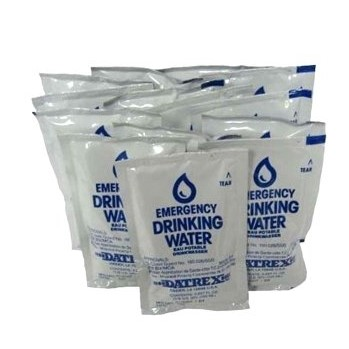
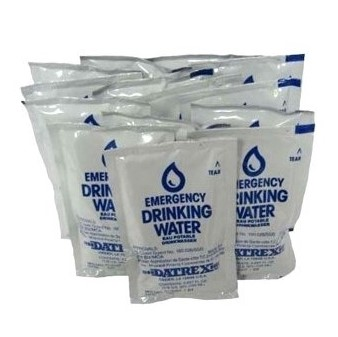
Minor fixups
I finished the header/nav bar and implimented it in the signup page.
Added a footer just in case for next time when Johsnon tells me whether
I need to have a contact us/privacy policy/terms and conditions etc.
that's where I'll put it all.
I cropped the small packet of water again to make it more centre.

Changed region(s): [[0.0592, 0.1484, 0.9467, 0.9199]]

diff --git a/css/styles.css b/css/styles.css
@@ -16,12 +16,19 @@ input:invalid {
 	box-shadow: none !important;
 }
 
+footer {
+	background-color: #002D62;
+	height: 6rem;
+	position: absolute;
+	bottom: 0;
+	width: 100%;
+}
+
 #nav-buttons {
 	width: auto;
-	background-color: red;
 	width: 60rem;
 	display: flex;
-	justify-content: space-between;
+	justify-content: space-around;
 }
 
 #nav-bar {
@@ -49,6 +56,10 @@ input:invalid {
 	color: white;
 	background-color: #00a8ff;
 	border-radius: 0.2rem;
+	padding: 1rem 1rem 0.5rem 0.5rem;
+	margin-right: 3rem;
+	position: relative;
+	bottom: 2rem;
 }
 
 #blueBoxForm {
@@ -58,6 +69,8 @@ input:invalid {
 	width: 36rem;
 	padding: 1rem;
 	padding-bottom: 2.5rem;
+	height: 30rem;
+	align-items: center;
 }
 
 #white-box {
@@ -67,6 +80,14 @@ input:invalid {
 	width: 98%;
 	border: 3rem solid #e5e5e8;
 	padding: 5rem;
+}
+
+#white-box-signup {
+	display: flex;
+	justify-content: center;
+	background-color: white;
+	width: 98%;
+	border: 3rem solid #e5e5e8;
 }
 
 #white-box-holder {
@@ -99,6 +120,11 @@ input:invalid {
 	position: relative;
 	bottom: 4rem;
 	right: 1rem;
+}
+
+#blue-box-holder {
+	display: flex;
+	justify-content: center;
 }
 
 .nav-button a:link, .nav-button, .nav-button a:visited {

diff --git a/signup.php b/signup.php
@@ -6,20 +6,41 @@
 	<link rel="stylesheet" type="text/css" href="css/styles.css" />
 </head>
 <body>
-	<div id="blueBoxForm">
-		<div class="formBox">
-			<div>
-				<h1>SIGN UP</h1>
-				<p class="error">Please re-enter your password.</p>
+	<header>
+		<div id="nav-bar-container">
+			<div id="nav-bar">
+				<a href="index.php"><img src="images/logo.png"  id="logo-image"/></a>
+				<ul id="nav-buttons">
+					<li class="nav-button"><strong><a href="shop.php">SHOP</a></li></strong>
+					<li class="nav-button" id="active"><strong><a href="signup.php">SIGN UP</a></li></strong>
+					<li class="nav-button"><strong><a href="login.php">LOG IN</a></li></strong>
+				</ul>
+				<div>
+					<strong><a href="cart.php" id="cart-button"><img src="images/cart.png" id="cart-image"/> CART</a></strong>
+				</div>
 			</div>
-			<form id="RegisterForm" name="RegisterForm" method="post" action="" enctype="multipart/form-data">
-				<div class="formelement"><input type="text" name="FirstName" required="required" class="textfield" id="FirstName" placeholder="First name"></div>
-				<div class="formelement"><input type="text" name="Surname" required="required" class="textfield" id="LastName" placeholder="Surname"></div>
-				<div class="formelement"><input type="text" name="Email" required="required" class="textfield" id="Email" placeholder="Email"></div>
-				<div class="formelement"><input type="text" name="Password" required="required" class="textfield" id="Password" placeholder="Password"></div>
-				<div class="formelement"><input type="text" name="ConfirmPassword" required="required" class="textfield" id="ConfirmPassword" placeholder="Confirm password"></div>
-				<div class="formelement"><input type="submit" name="SignUp" value="Sign Up" class="submitButton" id="SignUpButton"></div>
-			</form>
+		</div>
+	</header>
+	<div id="white-box-holder">
+		<div id="white-box-signup">
+			<div id="blue-box-holder">
+				<div id="blueBoxForm">
+					<div class="formBox">
+						<div>
+							<h1>SIGN UP</h1>
+							<p class="error">Please re-enter your password.</p>
+						</div>
+						<form id="RegisterForm" name="RegisterForm" method="post" action="" enctype="multipart/form-data">
+							<div class="formelement"><input type="text" name="FirstName" required="required" class="textfield" id="FirstName" placeholder="First name"></div>
+							<div class="formelement"><input type="text" name="Surname" required="required" class="textfield" id="LastName" placeholder="Surname"></div>
+							<div class="formelement"><input type="text" name="Email" required="required" class="textfield" id="Email" placeholder="Email"></div>
+							<div class="formelement"><input type="text" name="Password" required="required" class="textfield" id="Password" placeholder="Password"></div>
+							<div class="formelement"><input type="text" name="ConfirmPassword" required="required" class="textfield" id="ConfirmPassword" placeholder="Confirm password"></div>
+							<div class="formelement"><input type="submit" name="SignUp" value="Sign Up" class="submitButton" id="SignUpButton"></div>
+						</form>
+					</div>
+				</div>
+			</div>
 		</div>
 	</div>
 </body>

diff --git a/index.php b/index.php
@@ -7,10 +7,10 @@
 	<link rel="icon" href="images/favicon.png" />
 </head>
 <body>
-	<div id="nav-bar-container">
-		<div id="nav-bar">
-			<a href="index.php"><img src="images/logo.png"  id="logo-image"/></a>
-			<nav>
+	<header>
+		<div id="nav-bar-container">
+			<div id="nav-bar">
+				<a href="index.php"><img src="images/logo.png"  id="logo-image"/></a>
 				<ul id="nav-buttons">
 					<li class="nav-button"><strong><a href="shop.php">SHOP</a></li></strong>
 					<li class="nav-button"><strong><a href="signup.php">SIGN UP</a></li></strong>
@@ -19,9 +19,9 @@
 				<div>
 					<strong><a href="cart.php" id="cart-button"><img src="images/cart.png" id="cart-image"/> CART</a></strong>
 				</div>
-			</nav>
+			</div>
 		</div>
-	</div>
+	</header>
 	<div id="white-box-holder">
 		<div id="white-box">
 			<img id="front-page-image" src="images/packet-s.jpg" />
@@ -29,5 +29,8 @@
 			<a href="shop.php" id="shop-now-button"><strong>SHOP NOW &rarr;</strong></a>
 		</div>
 	</div>
+	<footer>
+		<h1>THIS IS THE FOOTER</h1>
+	</footer>
 </body>
 </html>
